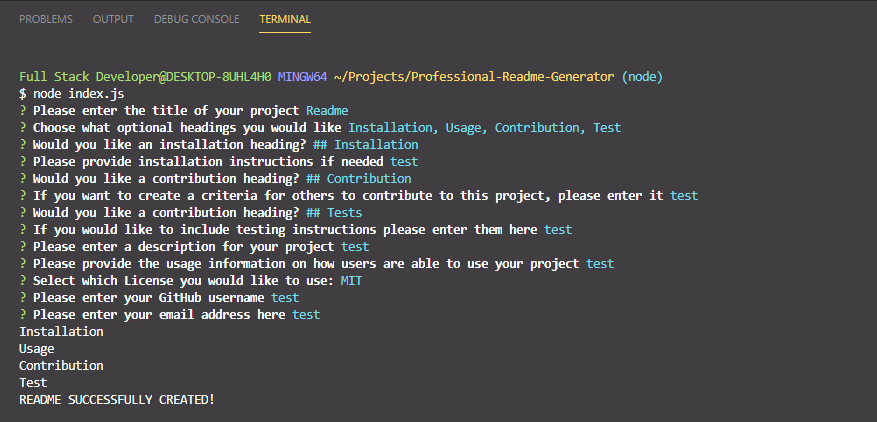
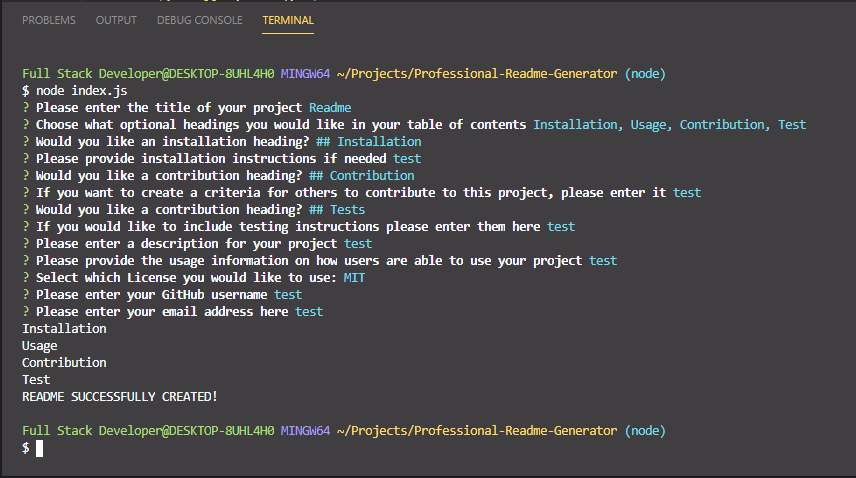
updated screenshot

Changed region(s): [[0.0, 0.1232, 0.9416, 0.955], [0.0, 0.9858, 1.0, 1.0], [0.0, 0.0308, 0.3645, 0.0924]]

diff --git a/index.js b/index.js
@@ -21,7 +21,7 @@ const questions = [{
     {
         type: 'checkbox',
         name: 'toc',
-        message: 'Choose what optional headings you would like',
+        message: 'Choose what optional headings you would like in your table of contents',
         choices: ['Installation', 'Usage', 'Contribution', 'Test']
     },
     // Installation instructions have not been made manditory so I have added an option for the user to create the markdown heading or not
